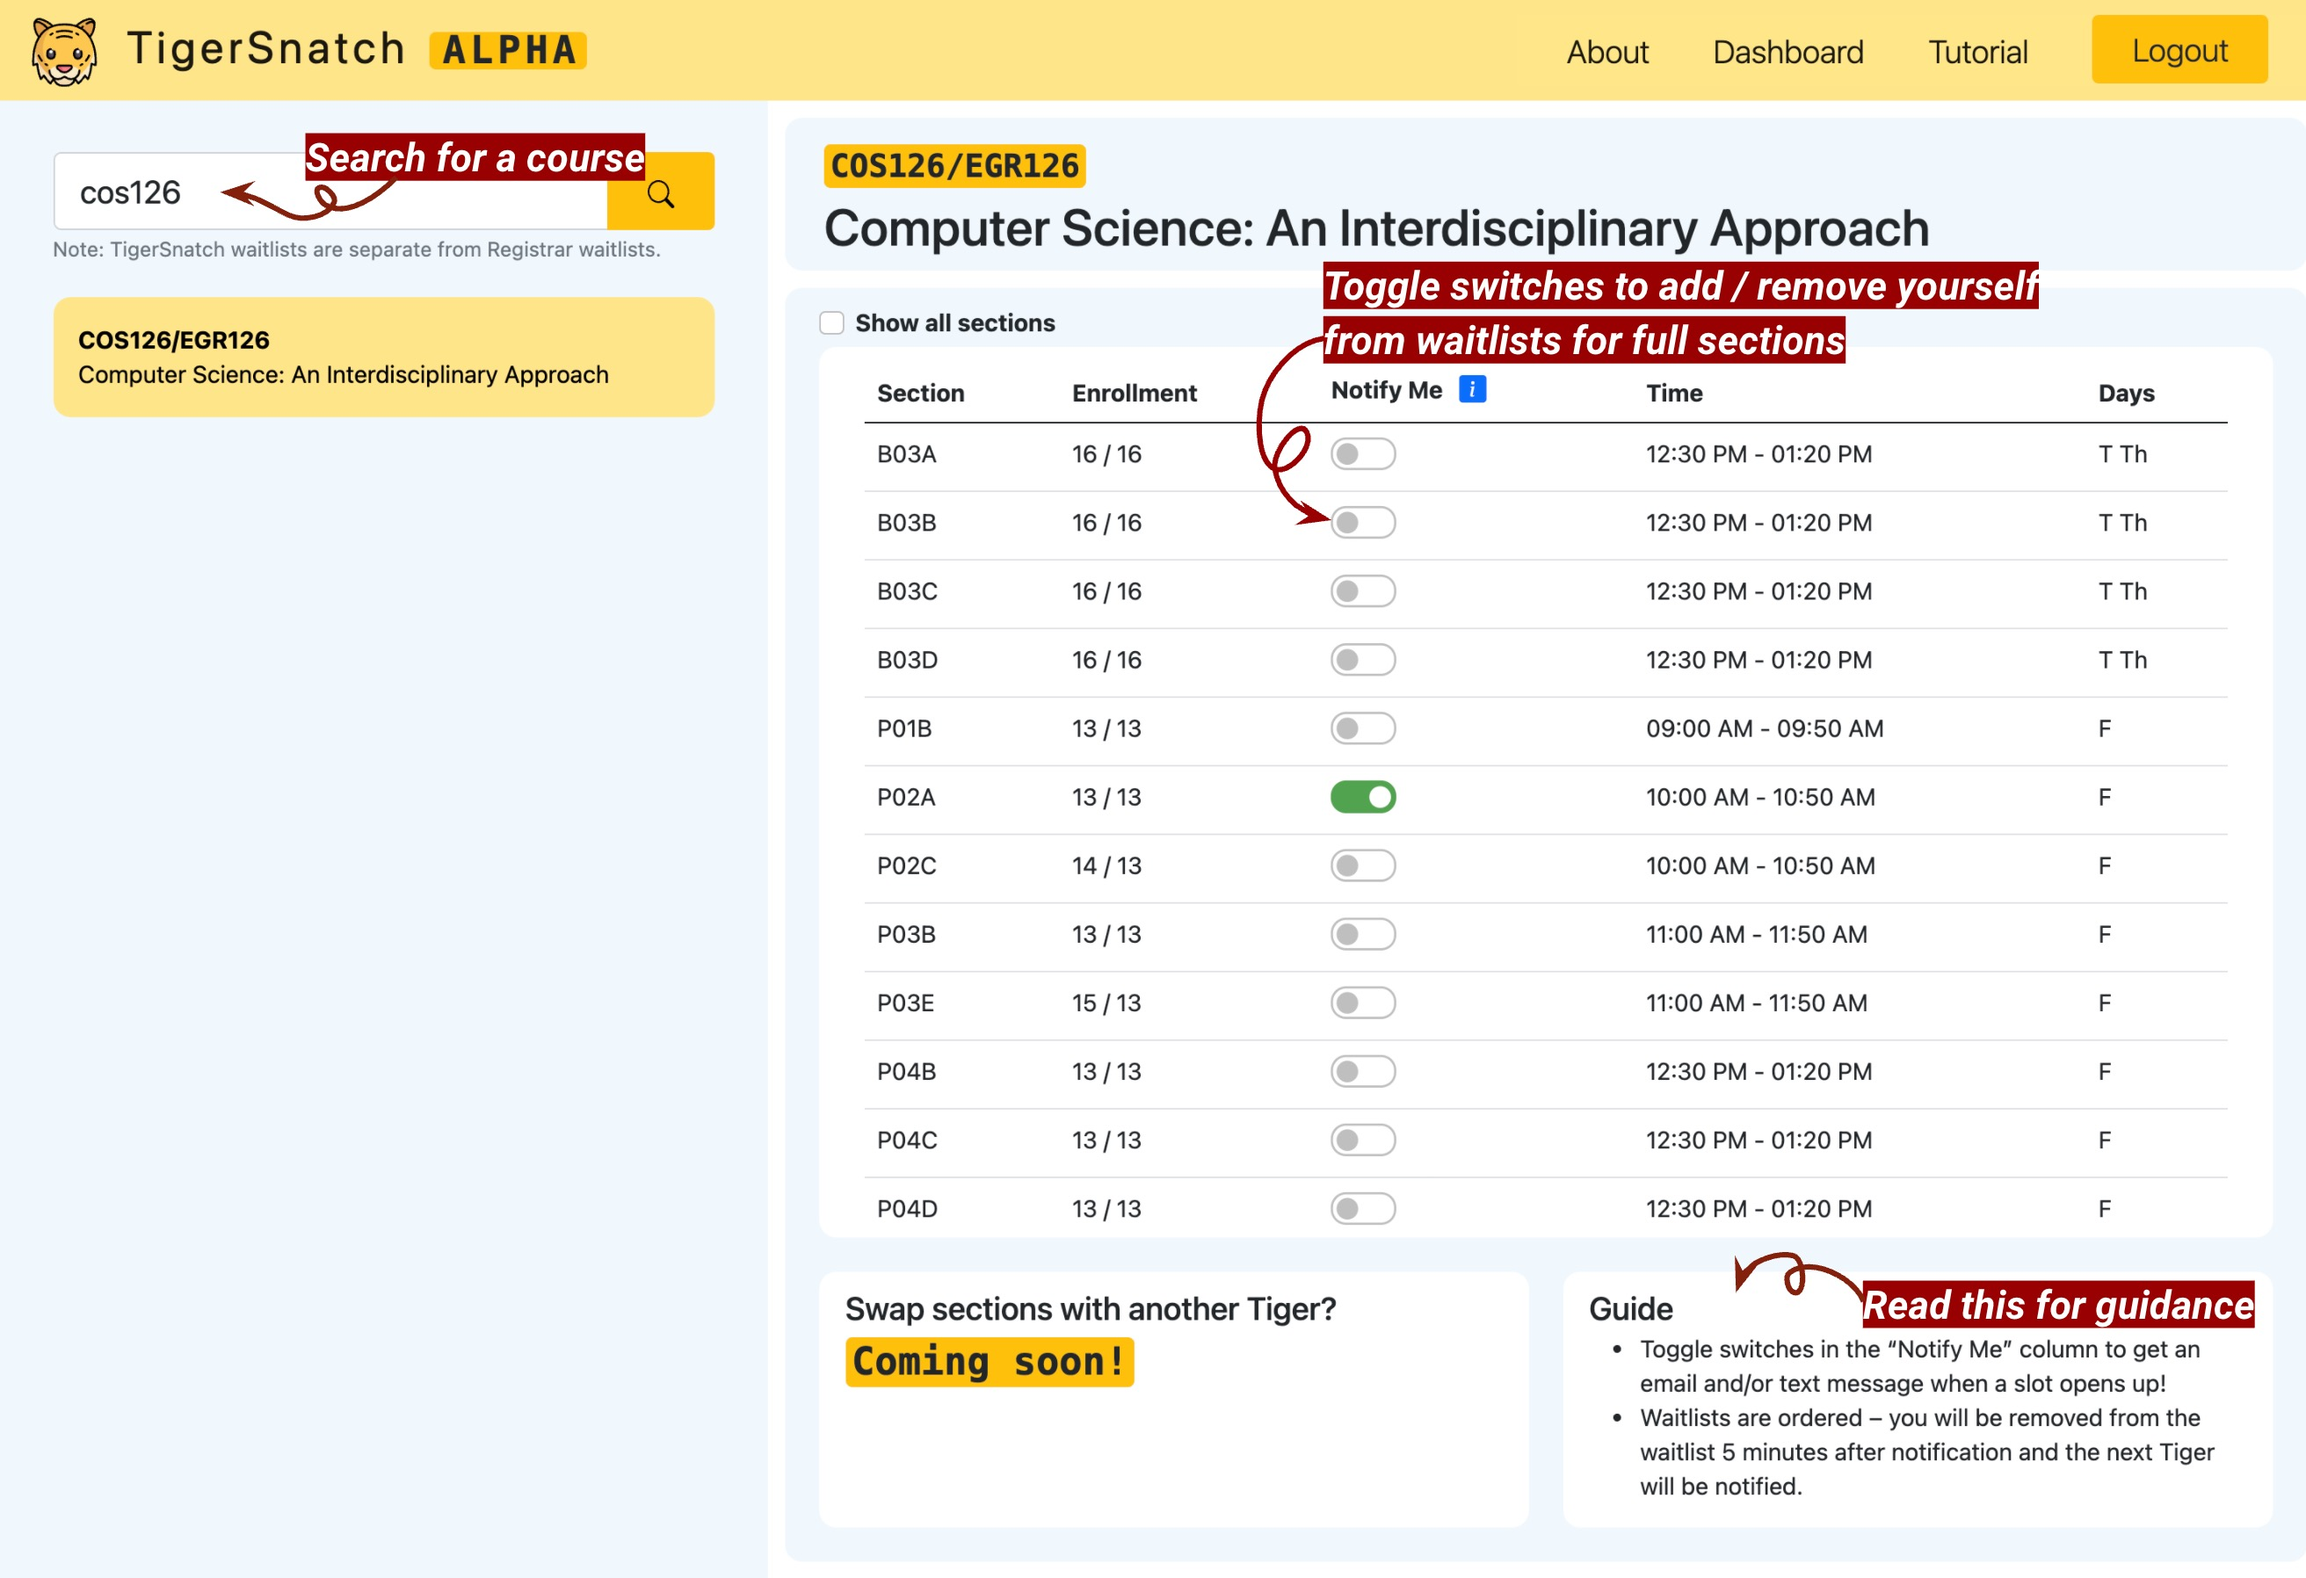
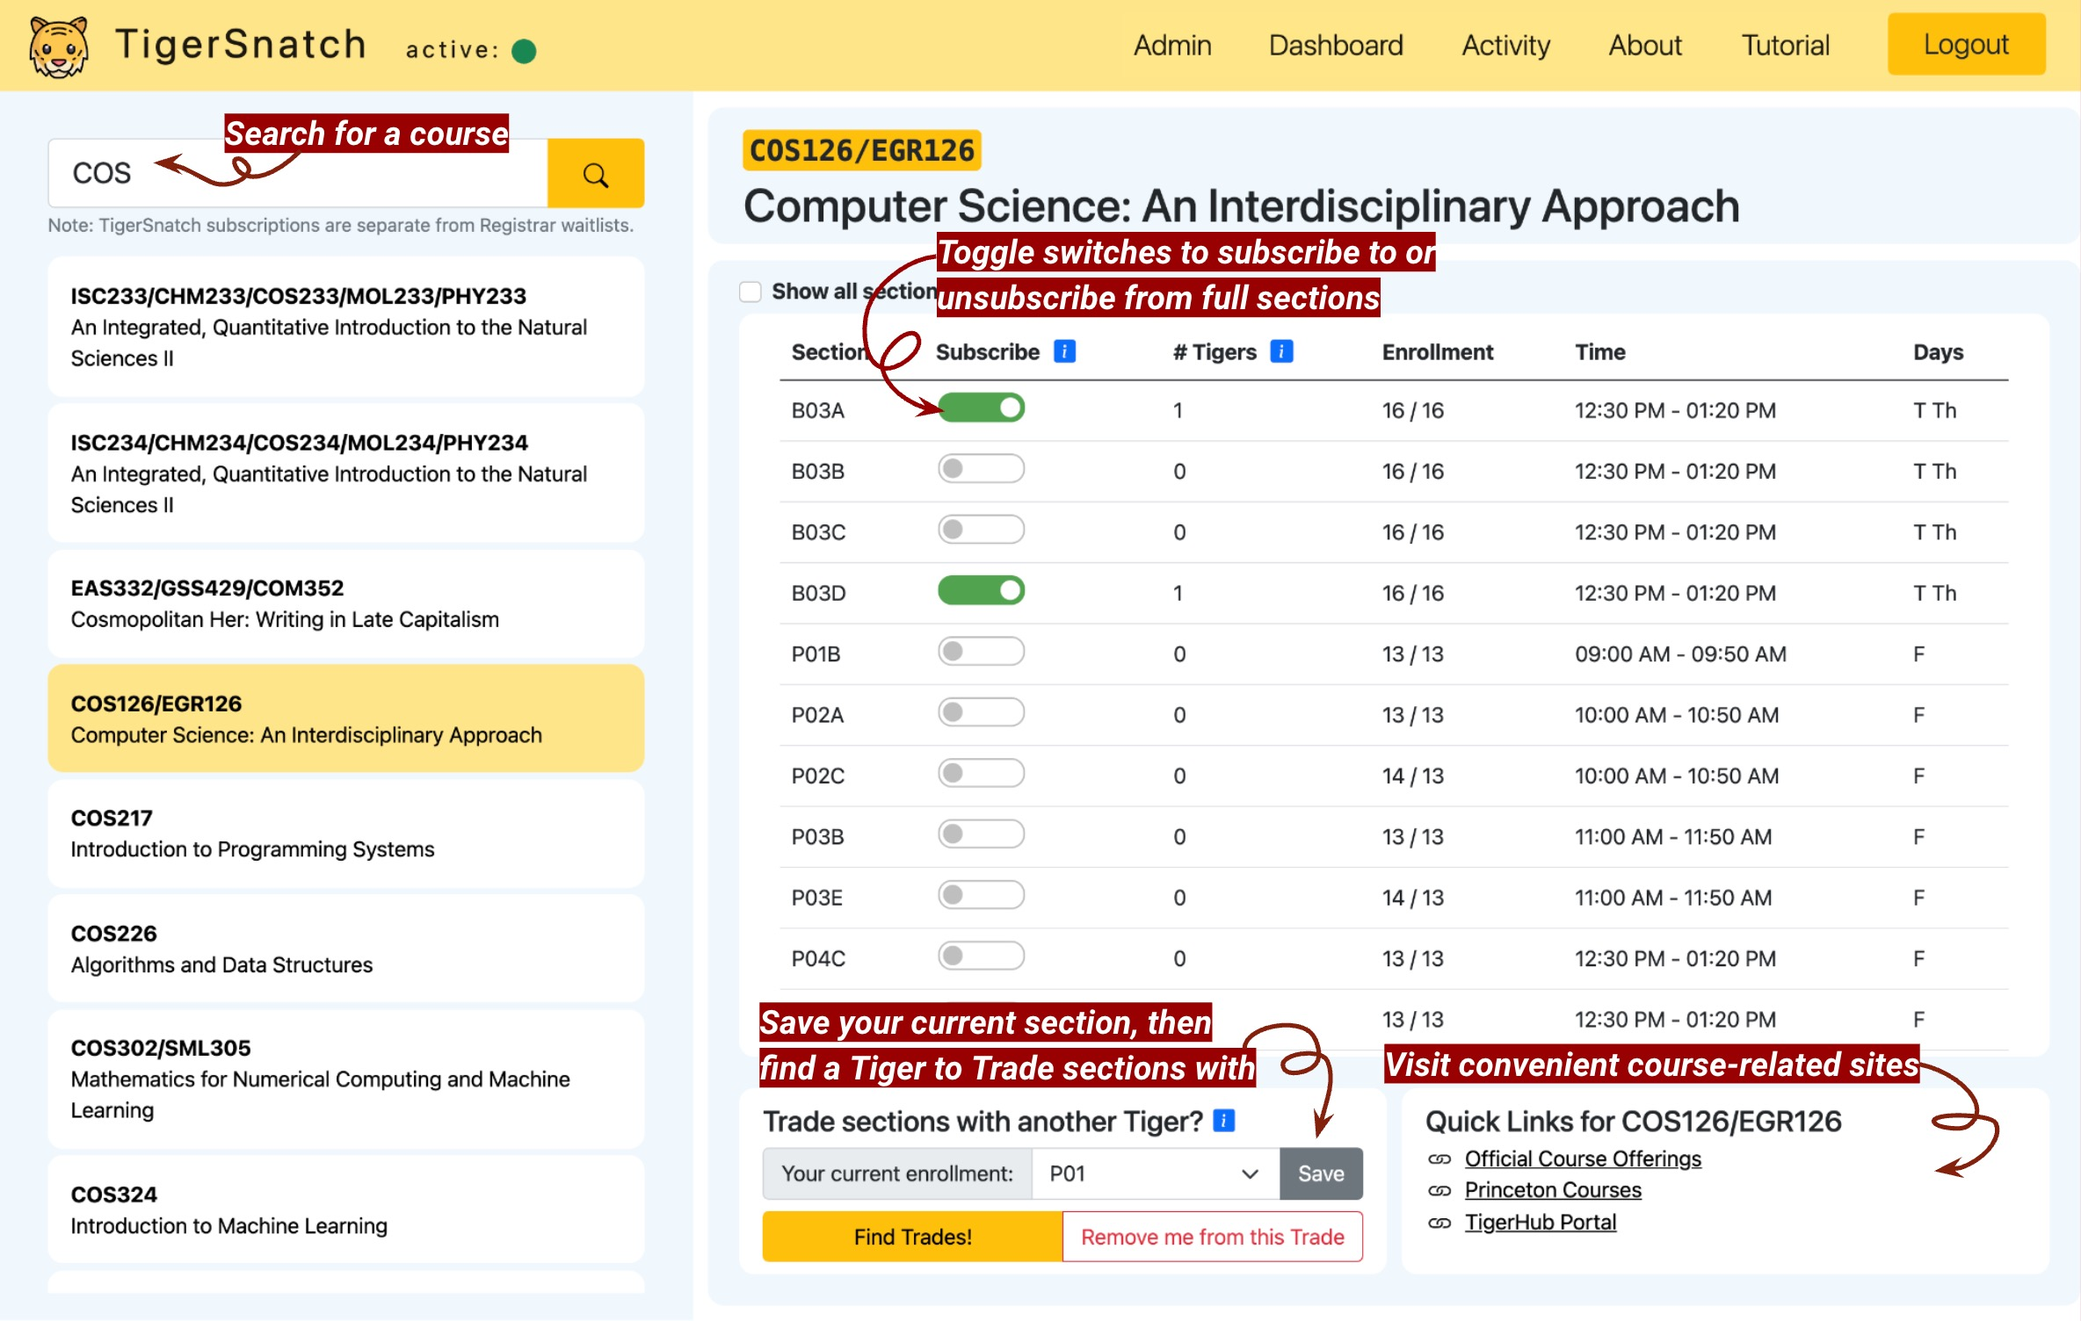
updated tutorial

diff --git a/templates/tutorial.html b/templates/tutorial.html
@@ -18,28 +18,27 @@
                 </p>
             </div>
             <div class="row">
-                <p class="fw-light text-center fs-5 p-text mb-5">
+                <p class="fw-light text-center fs-5 p-text mb-4">
                     Before you start Snatching for course spots, here’s a brief guide on how to use
                     TigerSnatch.
                 </p>
             </div>
             <div class="row">
                 <p class="fw-light text-center fs-5 p-text mb-4">
-                    <span
-                        class="badge bg-warning text-dark font-monospace fw-bold fs-5 px-1 py-1 me-2"
-                        >Step 1</span
-                    >
                     Search for a course by course department, number, or title.
                 </p>
             </div>
             <div class="row">
                 <p class="fw-light text-center fs-5 p-text mb-4">
-                    <span
-                        class="badge bg-warning text-dark font-monospace fw-bold fs-5 px-1 py-1 me-2"
-                        >Step 2</span
-                    >
                     Toggle “Notify Me” switches to subscribe to (i.e. receive notifications for) or
                     unsubscribe from (i.e. stop receiving notifications for) full sections.
+                </p>
+            </div>
+            <div class="row">
+                <p class="fw-light text-center fs-5 p-text mb-4">
+                    If you're already enrolled in a full section but wish to switch into another, try out Trades. From the dropdown, select and save your currently enrolled section. 
+                    Then, click Find Trades to view and email other Tigers who are in one of your subscribed sections 
+                    and want to switch into your current section.
                 </p>
             </div>
             <div class="row">
@@ -53,11 +52,8 @@
             </div>
             <div class="row">
                 <p class="fw-light text-center fs-5 p-text my-4">
-                    <span
-                        class="badge bg-warning text-dark font-monospace fw-bold fs-5 px-1 py-1 me-2"
-                        >Step 3</span
-                    >
-                    Return to the dashboard to check out your subscriptions (i.e. "Snatches").<br />
+                    Return to the dashboard to check out your subscriptions (i.e. "Snatches") and the 
+                    sections you wish to trade with other Tigers. <br />
                 </p>
             </div>
             <div class="row">
@@ -71,12 +67,28 @@
             </div>
             <div class="row">
                 <p class="fw-light text-center mt-4 fs-5 p-text">
-                    And that’s it! The next time a spot opens up in a subscribed section, you'll be
+                    It's that simple! The next time a spot opens up in a subscribed section, you'll be
                     notified immediately via email. You will continue receiving notifications every
                     5 minutes until this section is full again, or you unsubscribe from it. To
                     unsubscribe from a particular section, simply log back onto Tigersnatch and
                     toggle the section's switch off in the Dashboard.
                 </p>
+            </div>
+            <div class="row">
+                <p class="fw-light text-center mt-4 fs-5 p-text mb-4">
+                    By the way, every time a notification is sent for a newly available subscribed section or you
+                    and another Tiger choose to contact one another to engage in a Trade, these 
+                    actions will be logged on the Activity page for your covenience.
+                </p>
+            </div>
+            <div class="row">
+                <div class="my-4 tutorial-image">
+                    <img
+                        src="/static/ACTIVITY_TUTORIAL.jpeg"
+                        class="img-shadow rounded border border-3 border-warning mx-auto d-block"
+                        width="95%"
+                    />
+                </div>
             </div>
             <div class="row">
                 <p class="fw-light text-center mt-4 mb-3 p-text">
